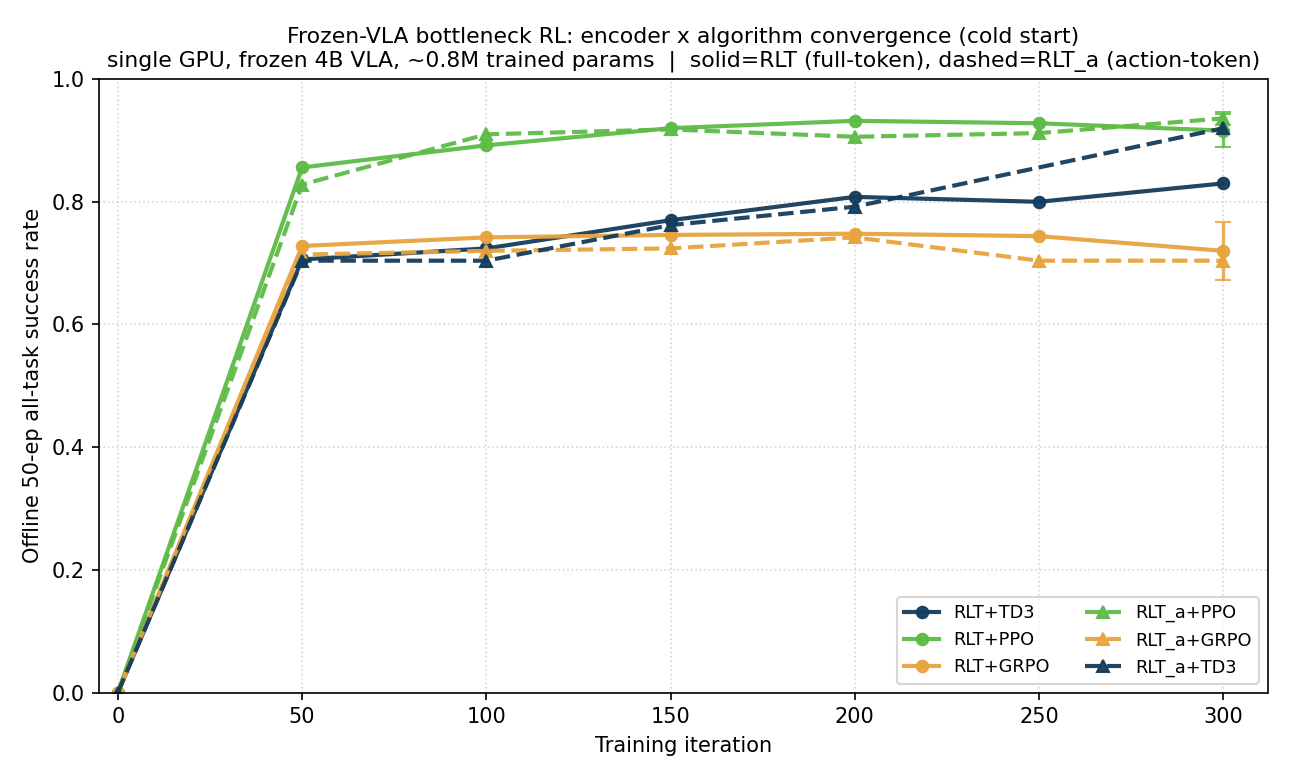
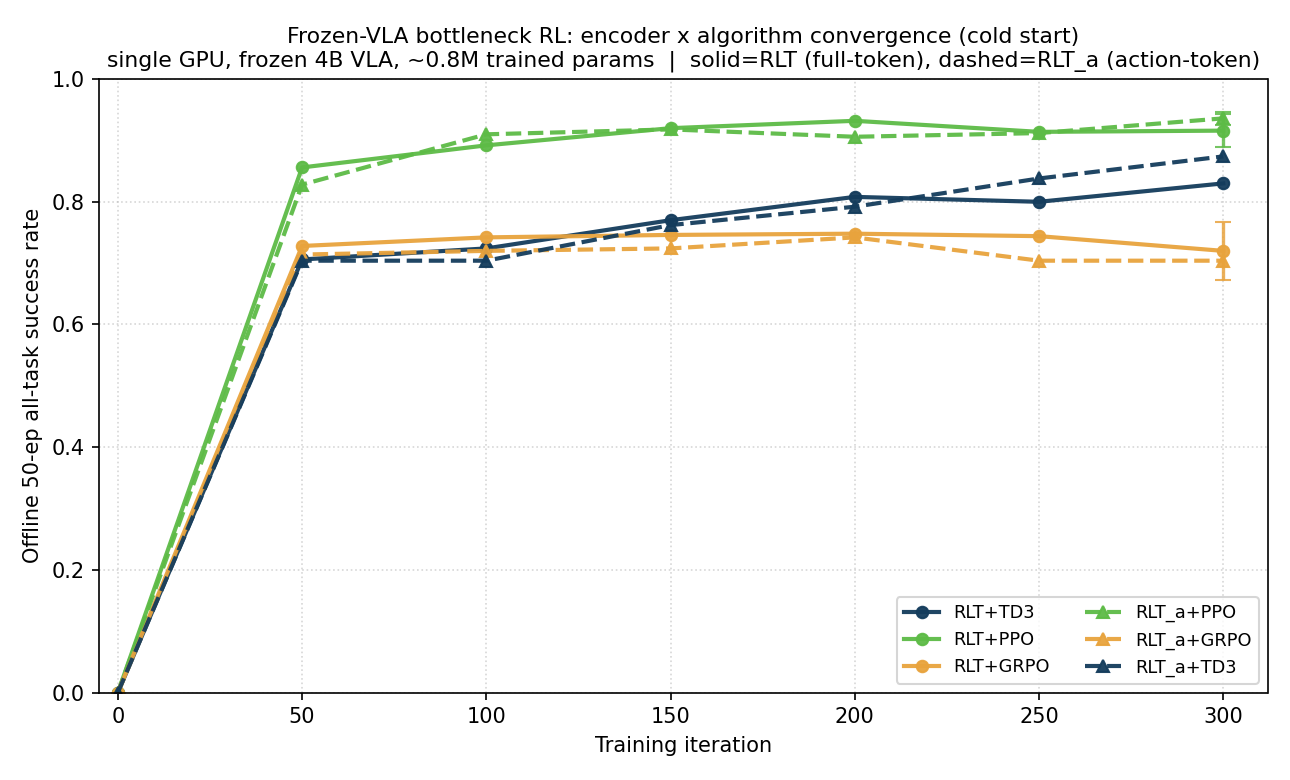
data(rl-report): fig6a all 6 routes smooth; RLT_a+TD3 curve ->iter300=0.874
RLT_a+TD3 now a full per-iter curve (0/.704/.704/.762/.792/.838/.874) ending at
its own offline-50ep iter300 (consistent with other routes at iter300), not the
older release run's iter-400 value of 0.92.

Changed region(s): [[0.6822, 0.1538, 0.9612, 0.2769]]

diff --git a/AlphaBrain/training/reinforcement_learning/report_figures/plot_efficiency_curve.py b/AlphaBrain/training/reinforcement_learning/report_figures/plot_efficiency_curve.py
@@ -125,10 +125,11 @@ def routes():
             "results/eval_effcurve_0608/rlta_ppo_iter*.json", "results/eval_p0_50ep_0529/mt_rlta_ppo.json")),
         "RLT_a+GRPO": dict(algo="GRPO", enc="RLT_a", pts=_glob_curve(
             "results/eval_effcurve_0608/rlta_grpo_iter*.json", "results/eval_p0_50ep_0529/mt_rlta_grpo.json")),
-        # per-iter curve from the 0610 re-train (#20); endpoint anchored at the
-        # released 0.92 until #20's own iter300 eval lands.
-        "RLT_a+TD3":  dict(algo="TD3",  enc="RLT_a", pts={
-            **_glob_curve("results/eval_effcurve_0610/rlta_td3_iter*.json"), 300: 0.920}),
+        # per-iter curve from the 0610 re-train (#20), iter50-300; iter300=0.874
+        # is #20's own offline 50-ep (consistent with the other routes' iter300,
+        # vs the older release run's iter-400 value of 0.92).
+        "RLT_a+TD3":  dict(algo="TD3",  enc="RLT_a",
+                           pts=_glob_curve("results/eval_effcurve_0610/rlta_td3_iter*.json")),
     }
 
 
